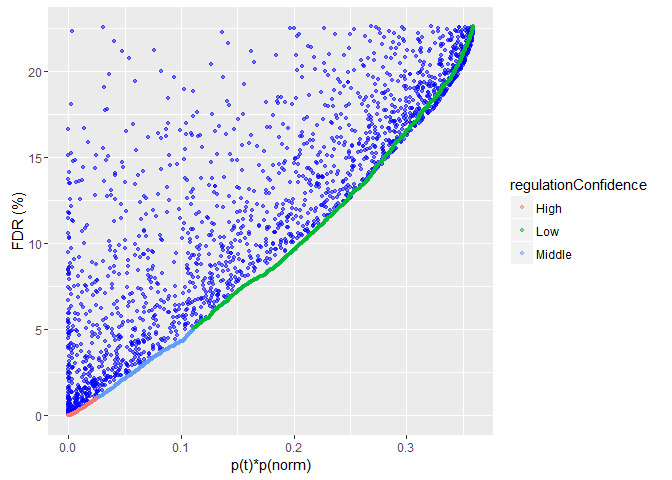
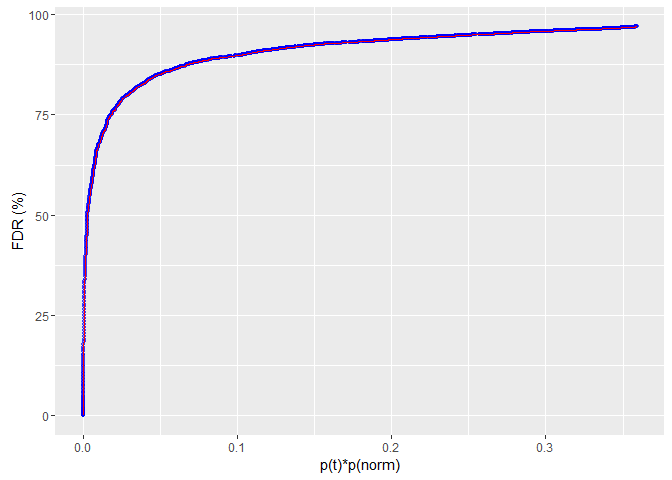
Corrections to the FDR estimation.

diff --git a/Expression_data/quantitative_proteomics.md b/Expression_data/quantitative_proteomics.md
@@ -46,7 +46,7 @@ paste("Number of columns: ", nColumns, ", number of protein groups: ", nLines, s
 Filtering of the protein groups
 -------------------------------
 
-MaxQuant indicates contaminants, decoy sequences, and proteins only identified by site by a '+' in their columns. You can access the number of every category by using the *table* function.
+MaxQuant indicates contaminants, decoy sequences, and proteins only identified by site by '+' in their columns. You can access the number of every category by using the *table* function.
 
 ``` r
 nContaminants <- table(proteinGroupsInput$Contaminant)
@@ -454,49 +454,101 @@ plot(lambdaHistogramPlot)
 ![](quantitative_proteomics_files/figure-markdown_github/hist_lambda-1.png)
 
 ``` r
-corePopulation <- round(100*length(lambdaLog[abs(lambdaLog) <= 1])/length(lambdaLog))/100
+corePopulation <- round(100*length(lambdaLog[abs(lambdaLog) < 1])/length(lambdaLog))/100
 ```
 
-76% of the p-values is contained within the 1.1 deviation ratio. This percentile will be used in the following as core population.
+67% of the p-values is contained within the 1.1 deviation ratio. This percentile will be used in the following as core population.
 
 Multiple hypothesis testing
 ---------------------------
 
-The more we run t-tests, the more chances we have to get a low p-value by chance. For example, when we run the test just one time, we are unlikely to find a p &lt; 1% by chance, whereas if we run the test 100 times, we are likely to find at least one p &lt; 1% by chance. This problem is called the multiple hypothesis testing. We are therefore going to evaluate the number of false discoveries FP by multiplying the probability of getting this p-value by chance by the number of times we run the test, i.e. the number of proteins: FP = n \* p. By dividing the number of false positives FP by the number of proteins, we obtain a false discovery rate, FDR, the share of proteins incorrectly marked as differentially expressed between the cell lines.
+The more we run t-tests, the more chances we have to get a low p-value by chance. For example, when we run the test just one time, we are unlikely to find a p &lt; 1% by chance, whereas if we run the test 100 times, we are likely to find at least one p &lt; 1% by chance. This problem is called the multiple hypothesis testing. Correction for multiple hypothesis testing approaches were pioneered by Benjamini and Hochberg [(6)](#references). Below is an attempt at illustrating this problem intuitively.
 
-In the following, we estimate the FDR at every p-value and plot it against the (log transformed) p-value. Note that the density of the t-distribution is used here instead of the p-value, it can be changed to use the p-value according to your preferences.
+In the following we derive the number of randomly occurring low p-values, false discoveries (FP), from the t-distribution calibrated to the core population. The obtained distribution of false positives is displayed in red. Note that the density of the t-distribution inferred from the core population is used here instead of the p-value, the code can be adapted to use the p-value according to your preferences.
 
 ``` r
-measuredPValues <- validProteinGroupsRatios$tTestPValue
-measuredPValuesLog <- -log10(measuredPValues)
-measuredStatistics <- validProteinGroupsRatios$tTestStatistic
-measuredP <- dt(measuredStatistics, df =degreesOfFreedom)
-nfp <- c()
+tScoreLimits <- qt(c(0.5-corePopulation/2, 0.5+corePopulation/2), df = degreesOfFreedom)
+tPopulation <- length(validProteinGroupsRatios$tTestStatistic[validProteinGroupsRatios$tTestStatistic > tScoreLimits[1] & validProteinGroupsRatios$tTestStatistic < tScoreLimits[2]])/corePopulation
+
+nBinsInOne <- 5
+binSize <- 1/nBinsInOne
+minStatistic <- floor(min(validProteinGroupsRatios$tTestStatistic))
+maxStatistic <- ceiling(max(validProteinGroupsRatios$tTestStatistic))
+
+quantilesStatistic <- quantile(validProteinGroupsRatios$tTestStatistic, c(0.5-corePopulation/2, 0.5, 0.5+corePopulation/2), na.rm = T, names = F)
+medianStatistic <- quantilesStatistic[2]
+interQuantilesStatistic <- quantilesStatistic[3] - quantilesStatistic[1]
+xDistribution <- minStatistic + (binSize * (1:(nBinsInOne * (maxStatistic - minStatistic))))
+yDistributionT <- dt(x = xDistribution, df = degreesOfFreedom)
+scale <- tPopulation / nBinsInOne
+yDistributionTNorm <- scale * yDistributionT
+
+tStatisticHistogramPlot <- ggplot()
+tStatisticHistogramPlot <- tStatisticHistogramPlot + geom_histogram(aes(x=validProteinGroupsRatios$tTestStatistic), col="blue", fill = "blue", alpha = 0.1, binwidth = binSize)
+tStatisticHistogramPlot <- tStatisticHistogramPlot + geom_line(aes(x=xDistribution, yDistributionTNorm), col="red", alpha = 0.8)
+tStatisticHistogramPlot <- tStatisticHistogramPlot + xlab("t-statistic") + ylab("Number of proteins")
+plot(tStatisticHistogramPlot)
+```
+
+![](quantitative_proteomics_files/figure-markdown_github/core_population-1.png)
+
+By dividing the estimated number of false positives by the number of proteins at a given t-statistic at increasing p-value, we obtain a false discovery rate, *FDR*, the share of proteins incorrectly marked as differentially expressed between the cell lines. In the following, we estimate the FDR at every p-value and plot it against the (log transformed) p-value.
+
+Since the number of hits can fluctuate around the estimated number of false positives, the FDR evolves in steps that can go over 100%. The lowers FDR achievable at a given p-value is therefore used instead. This is termed a *q-value*.
+
+``` r
 fdr <- c()
-totalFP <- 0
 index <- 1
-for (i in order(measuredP)) {
-  totalFP <- totalFP + measuredP[i]
-  nfp <- c(nfp, totalFP)
-  fdrAtI <- totalFP / index
+for (i in order(validProteinGroupsRatios$tTestPValue)) {
+  tStatistic <- validProteinGroupsRatios$tTestStatistic[i]
+  nFpAtI <- tPopulation * 2 * pt(tStatistic, df = degreesOfFreedom, lower.tail = tStatistic < 0)
+  fdrAtI <- nFpAtI / index
   fdr[i] <- fdrAtI
   index <- index + 1
 }
 validProteinGroupsRatios$fdr <- fdr
 fdrPercent <- 100 * fdr
 
-qqPlot <- ggplot()
-qqPlot <- qqPlot + geom_point(aes(x=measuredStatistics, y=fdrPercent), alpha=0.5, size = 1, col = "blue")
-qqPlot <- qqPlot + xlab("Observed t-statistic") + ylab("FDR (%)")
-plot(qqPlot)
+qValue <- c()
+lastLowesQValue <- 1
+pValue5 <- NA
+pValue10 <- NA
+for (i in order(validProteinGroupsRatios$tTestPValue, decreasing = T)) {
+  fdrAtI <- validProteinGroupsRatios$fdr[i]
+  if (fdrAtI < lastLowesQValue) {
+    lastLowesQValue <- fdrAtI
+  }
+  qValue[i] <- lastLowesQValue
+  if (is.na(pValue10) && lastLowesQValue < 0.1) {
+    pValue10 <- validProteinGroupsRatios$tTestPValueLog[i]
+  }
+  if (is.na(pValue5) && lastLowesQValue < 0.05) {
+    pValue5 <- validProteinGroupsRatios$tTestPValueLog[i]
+  }
+}
+if (is.na(pValue10)) {
+  pValue10 <- validProteinGroupsRatios$tTestPValueLog[i]
+}
+if (is.na(pValue5)) {
+  pValue5 <- validProteinGroupsRatios$tTestPValueLog[i]
+}
+validProteinGroupsRatios$qValue <- qValue
+qValuePercent <- 100 * qValue
+fdrPlot <- ggplot()
+fdrPlot <- fdrPlot + geom_point(aes(x=validProteinGroupsRatios$tTestPValueLog, y=fdrPercent), alpha=0.5, size = 1, col = "blue")
+fdrPlot <- fdrPlot + geom_line(aes(x=validProteinGroupsRatios$tTestPValueLog, y=qValuePercent), col = "red")
+fdrPlot <- fdrPlot + geom_vline(aes(xintercept = pValue5), col="darkgreen", alpha = 0.8, linetype="dotted", size = 1)
+fdrPlot <- fdrPlot + geom_vline(aes(xintercept = pValue10), col="darkorange", alpha = 0.8, linetype="dotted", size = 1)
+fdrPlot <- fdrPlot + xlab("p-value") + ylab("FDR (%)")
+plot(fdrPlot)
 ```
 
 ![](quantitative_proteomics_files/figure-markdown_github/fdr_plot-1.png)
 
-Such approaches were pioneered by Benjamini and Hochberg [(6)](#references). Since then many approaches were developed to improve the FDR caluclation.
+In this example, 10% FDR is achieved at p-value 0.074 and 5% FDR at p-value 0.027, as indicated by the orange and green lines, respectively. the lowest q-value is 2.42%.
 
-Volcano Plot
-------------
+Independent weighting hypothesis
+--------------------------------
 
 The following code shows the histogram of fold changes between diagnostic and relapse for all proteins, as estimated in the t-test section by the difference between the median value of relapse cell lines compaired to the median value of diagnostic cell lines. The red line shows a normal distribution with mean and standard deviation calibrated on the median and the 34th percentiles around the median, respectively.
 
@@ -523,21 +575,25 @@ plot(fcHistogramPlot)
 
 ![](quantitative_proteomics_files/figure-markdown_github/fc_histogram-1.png)
 
-With the hypothesis that false positives introduced by multiple hypothesis testing are likely to distribute according to the rest of the fold changes, independently of the p-value, we can use the fold change as independent weighting hypothesis for the FDR estimation.
+With the hypothesis that false positives introduced by multiple hypothesis testing are likely to distribute according to the rest of the fold changes, independently of the p-value, we can use the fold change as independent weighting hypothesis (IWH) for the FDR estimation. In the following, we sort the proteins according to their probability to belong to the fold change and student distributions. The q-value estimated previously is plotted in blue, and the q-value after IWH is colored in green, orange, and red for q-values below 1%, between 1 and 5%, and higher than 5%, respectively.
 
 ``` r
 scoreNorm <- dnorm(validProteinGroupsRatios$fc, mean = medianFC, sd = interQuantilesFC/2)
 scoreT <- dt(validProteinGroupsRatios$tTestStatistic, df =degreesOfFreedom)
 tNormScore <- scoreNorm * scoreT
 validProteinGroupsRatios$tNormScore <- tNormScore
-sumScore <- sum(tNormScore)
 scoreSums <- c()
 currentSum <- 0
+maxIncrease <- 1/tPopulation # Cannot be more than one FP per protein
 for (i in order(validProteinGroupsRatios$tNormScore)) {
-  currentSum <- currentSum + tNormScore[i]
+  increase <- tNormScore[i]
+  if (increase > maxIncrease) {
+    increase <- maxIncrease
+  }
+  currentSum <- currentSum + increase
   scoreSums[i] <- currentSum
 }
-scoreSums <- scoreSums / currentSum * totalFP
+scoreSums <- scoreSums / currentSum * tPopulation
 correctedFdr <- c()
 index <- 1
 for (i in order(validProteinGroupsRatios$tNormScore)) {
@@ -545,30 +601,134 @@ for (i in order(validProteinGroupsRatios$tNormScore)) {
   index <- index + 1
 }
 validProteinGroupsRatios$correctedFdr <- correctedFdr
+correctedQValue <- c()
+lastLowesQValue <- 1
+for (i in order(validProteinGroupsRatios$tNormScore, decreasing = T)) {
+  fdrAtI <- validProteinGroupsRatios$correctedFdr[i]
+  if (fdrAtI < lastLowesQValue) {
+    lastLowesQValue <- fdrAtI
+  }
+  correctedQValue[i] <- lastLowesQValue
+}
+validProteinGroupsRatios$correctedQValue <- correctedQValue
+
 correctedFdrPercent <- 100 * correctedFdr
+correctedQValuePercent <- 100 * correctedQValue
 
-regulationConfidence <- ifelse(correctedFdrPercent <= 5, "Middle", "Low")
-regulationConfidence <- ifelse(correctedFdrPercent <= 1, "High", regulationConfidence)
+regulationConfidence <- ifelse(correctedQValuePercent <= 5, "Middle", "Low")
+regulationConfidence <- ifelse(correctedQValuePercent <= 1, "High", regulationConfidence)
 
-qqPlot <- ggplot()
-qqPlot <- qqPlot + geom_point(aes(x=tNormScore, y=fdrPercent), size = 1, alpha=0.5, col = "blue")
-qqPlot <- qqPlot + geom_point(aes(x=tNormScore, y=correctedFdrPercent, col=regulationConfidence), size = 1, alpha=0.5)
-qqPlot <- qqPlot + xlab("p(t)*p(norm)") + ylab("FDR (%)")
-plot(qqPlot)
+fdrPlot <- ggplot()
+fdrPlot <- fdrPlot + geom_point(aes(x=tNormScore, y=correctedFdrPercent), alpha=0.5, size = 1, col = "blue")
+fdrPlot <- fdrPlot + geom_line(aes(x=tNormScore, y=correctedQValuePercent), col = "red")
+fdrPlot <- fdrPlot + xlab("p(t)*p(norm)") + ylab("FDR (%)")
+plot(fdrPlot)
 ```
 
 ![](quantitative_proteomics_files/figure-markdown_github/fdr_correction_plot-1.png)
 
-In the following, we plot the p-value against the fold change between the two conditions.
+``` r
+correctedFdrPlot <- ggplot()
+correctedFdrPlot <- correctedFdrPlot + geom_point(aes(x=tNormScore, y=qValuePercent), size = 1, alpha=0.5, col = "blue")
+correctedFdrPlot <- correctedFdrPlot + geom_point(aes(x=tNormScore, y=correctedQValuePercent, col=regulationConfidence), size = 1, alpha=0.5)
+correctedFdrPlot <- correctedFdrPlot + scale_color_manual(values=c("darkgreen", "darkRed", "darkorange"), name="Regulation Confidence", breaks=c("High", "Middle", "Low"), labels=c("High", "Middle", "Low"))
+correctedFdrPlot <- correctedFdrPlot + xlab("p(t)*p(norm)") + ylab("FDR (%)")
+plot(correctedFdrPlot)
+```
+
+![](quantitative_proteomics_files/figure-markdown_github/fdr_correction_plot-2.png)
+
+In the following, we plot the p-value against the fold change between the two conditions. This plot is called a *volcano plot*. The protein is colored depending on its q-value as detailed above.
 
 ``` r
 volcanoPlot <- ggplot()
 volcanoPlot <- volcanoPlot + geom_point(aes(x=validProteinGroupsRatios$fc, y=validProteinGroupsRatios$tTestPValueLog, col=regulationConfidence), size = 1, alpha = 0.5)
+volcanoPlot <- volcanoPlot + scale_color_manual(values=c("darkgreen", "darkRed", "darkorange"), name="Regulation Confidence", breaks=c("High", "Middle", "Low"), labels=c("High", "Middle", "Low"))
 volcanoPlot <- volcanoPlot + xlab("Fold Change [log2]") + ylab("p-value [-log(p)]")
 plot(volcanoPlot)
 ```
 
 ![](quantitative_proteomics_files/figure-markdown_github/volcano_plot-1.png)
+
+Note that this can easily be combined with an arbirary p-value threshold, e.g. 0.05.
+
+``` r
+pLimit <- 0.05
+```
+
+For example, in the section below, we conduct the same analysis for proteins with p-value &lt; 0.05.
+
+``` r
+scoreNorm <- dnorm(validProteinGroupsRatios$fc, mean = medianFC, sd = interQuantilesFC/2)
+scoreT <- dt(validProteinGroupsRatios$tTestStatistic, df =degreesOfFreedom)
+tNormScore05 <- ifelse(validProteinGroupsRatios$tTestPValue < pLimit, scoreNorm * scoreT, 1)
+validProteinGroupsRatios$tNormScore05 <- tNormScore05
+scoreSums05 <- c()
+currentSum <- 0
+maxIncrease <- 1/tPopulation # Cannot be more than one FP per protein
+for (i in order(validProteinGroupsRatios$tNormScore05)) {
+  increase <- tNormScore05[i]
+  if (increase > maxIncrease) {
+    increase <- maxIncrease
+  }
+  currentSum <- currentSum + increase
+  scoreSums05[i] <- currentSum
+}
+scoreSums05 <- scoreSums05 / currentSum * tPopulation
+correctedFdr05 <- c()
+index <- 1
+for (i in order(validProteinGroupsRatios$tNormScore05)) {
+  correctedFdr05[i] <- scoreSums05[i] / index
+  index <- index + 1
+}
+validProteinGroupsRatios$correctedFdr05 <- correctedFdr05
+correctedQValue05 <- c()
+lastLowesQValue <- 1
+for (i in order(validProteinGroupsRatios$tNormScore05, decreasing = T)) {
+  fdrAtI <- validProteinGroupsRatios$correctedFdr05[i]
+  if (fdrAtI < lastLowesQValue) {
+    lastLowesQValue <- fdrAtI
+  }
+  correctedQValue05[i] <- lastLowesQValue
+}
+validProteinGroupsRatios$correctedQValue05 <- correctedQValue05
+
+correctedFdr05Percent <- 100 * correctedFdr05
+correctedQValue05Percent <- 100 * correctedQValue05
+
+regulationConfidence05 <- ifelse(correctedQValue05Percent <= 5, "Middle", "Low")
+regulationConfidence05 <- ifelse(correctedQValue05Percent <= 1, "High", regulationConfidence05)
+
+fdrPlot05 <- ggplot()
+fdrPlot05 <- fdrPlot05 + geom_point(aes(x=tNormScore05, y=correctedFdr05Percent), alpha=0.5, size = 1, col = "blue")
+fdrPlot05 <- fdrPlot05 + geom_line(aes(x=tNormScore05, y=correctedQValue05Percent), col = "red")
+fdrPlot05 <- fdrPlot05 + xlab("p(t)*p(norm)") + ylab("FDR (%)")
+plot(fdrPlot05)
+```
+
+![](quantitative_proteomics_files/figure-markdown_github/fdr_correction_0.05-1.png)
+
+``` r
+correctedFdrPlot05 <- ggplot()
+correctedFdrPlot05 <- correctedFdrPlot05 + geom_point(aes(x=tNormScore05, y=qValuePercent), size = 1, alpha=0.5, col = "blue")
+correctedFdrPlot05 <- correctedFdrPlot05 + geom_point(aes(x=tNormScore05, y=correctedQValue05Percent, col=regulationConfidence05), size = 1, alpha=0.5)
+correctedFdrPlot05 <- correctedFdrPlot05 + scale_color_manual(values=c("darkgreen", "darkRed", "darkorange"), name="Regulation Confidence", breaks=c("High", "Middle", "Low"), labels=c("High", "Middle", "Low"))
+correctedFdrPlot05 <- correctedFdrPlot05 + xlab("p(t)*p(norm)") + ylab("FDR (%)")
+plot(correctedFdrPlot05)
+```
+
+![](quantitative_proteomics_files/figure-markdown_github/fdr_correction_0.05-2.png)
+
+``` r
+volcanoPlot05 <- ggplot()
+volcanoPlot05 <- volcanoPlot05 + geom_point(aes(x=validProteinGroupsRatios$fc, y=validProteinGroupsRatios$tTestPValueLog, col=regulationConfidence05), size = 1, alpha = 0.5)
+volcanoPlot05 <- volcanoPlot05 + scale_color_manual(values=c("darkgreen", "darkRed", "darkorange"), name="Regulation Confidence", breaks=c("High", "Middle", "Low"), labels=c("High", "Middle", "Low"))
+volcanoPlot05 <- volcanoPlot05 + geom_hline(aes(yintercept = -log10(pLimit)), col="blue", alpha = 0.8, linetype="dotted", size = 1)
+volcanoPlot05 <- volcanoPlot05 + xlab("Fold Change [log2]") + ylab("p-value [-log(p)]")
+plot(volcanoPlot05)
+```
+
+![](quantitative_proteomics_files/figure-markdown_github/fdr_correction_0.05-3.png)
 
 Missing values imputation
 -------------------------
